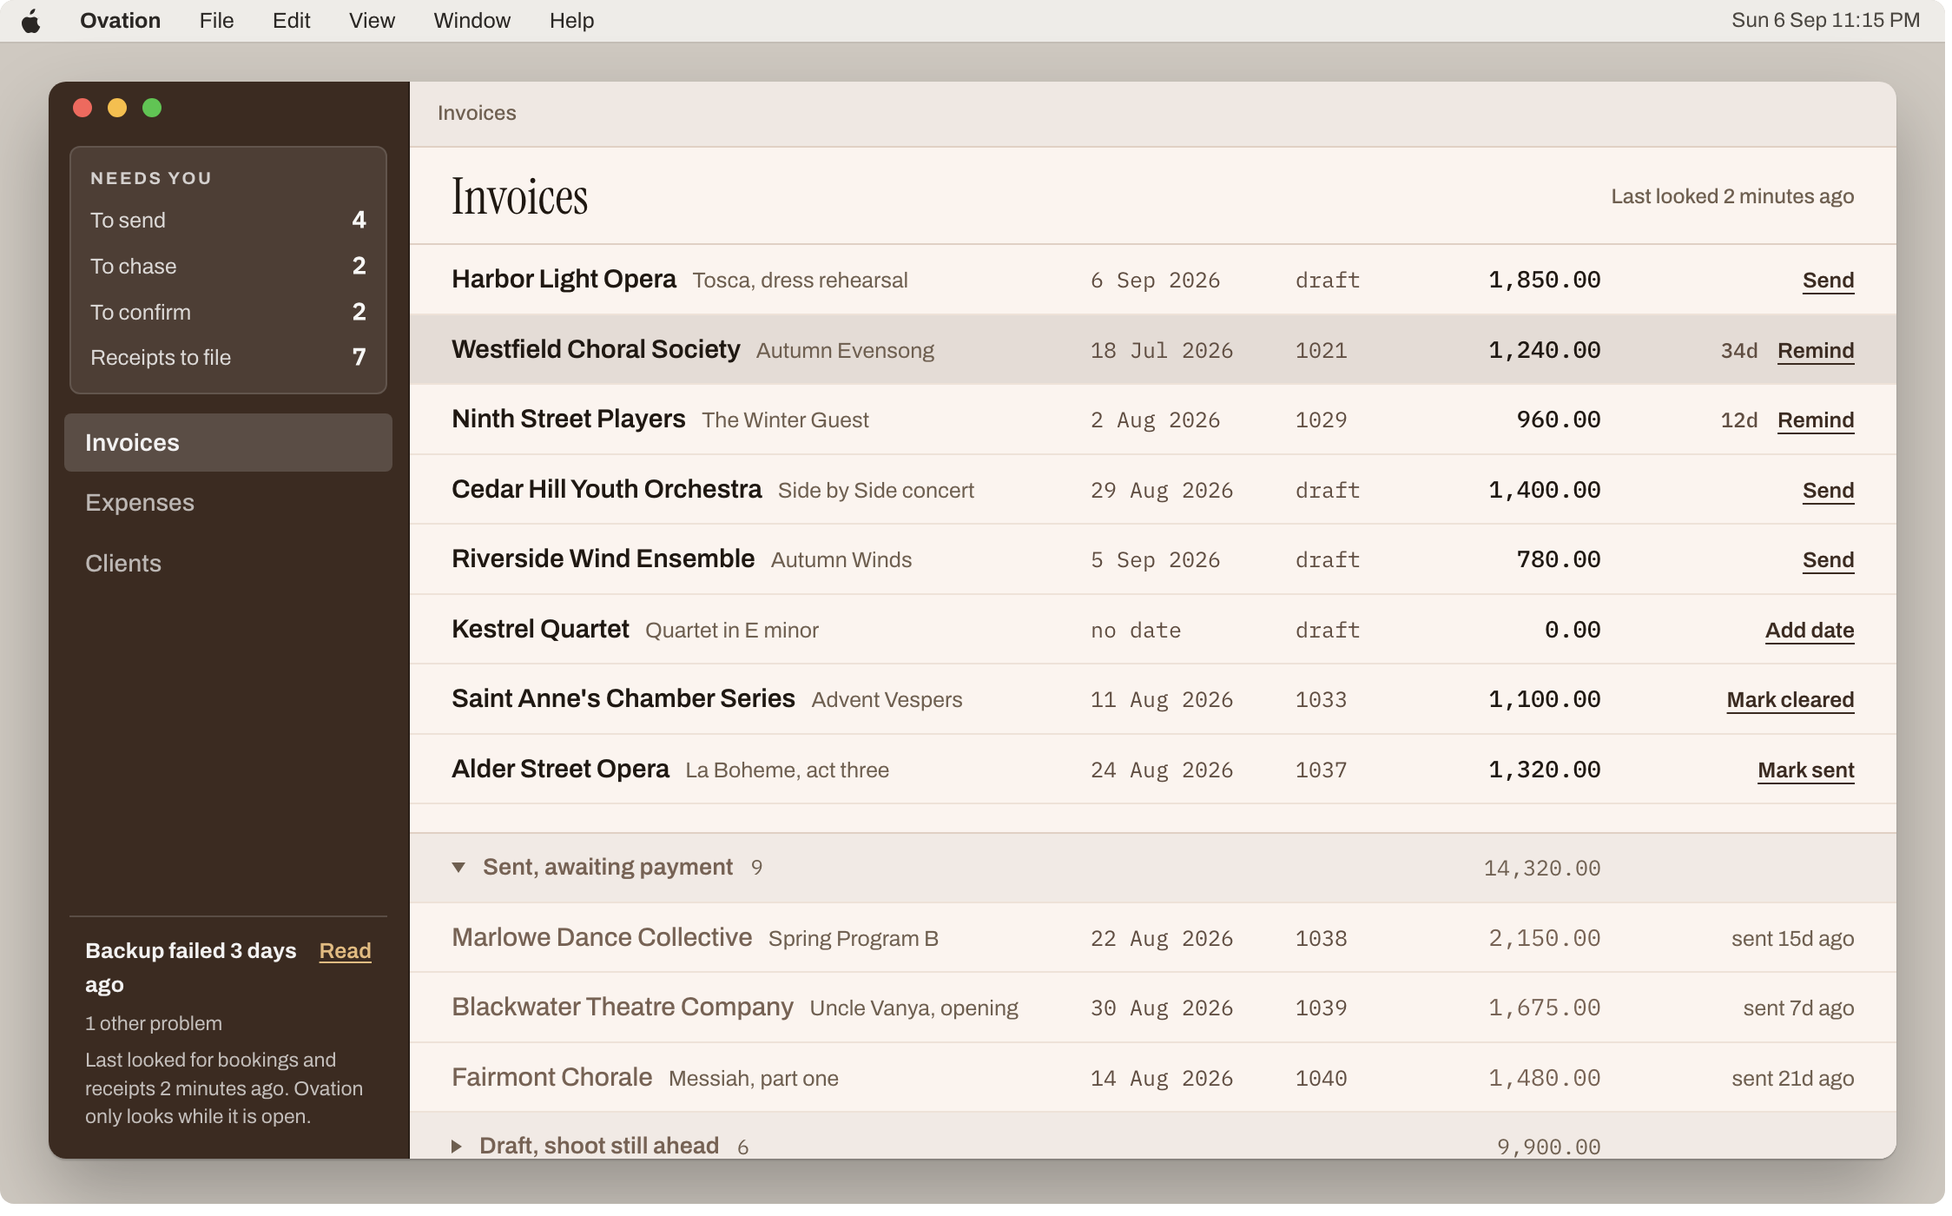
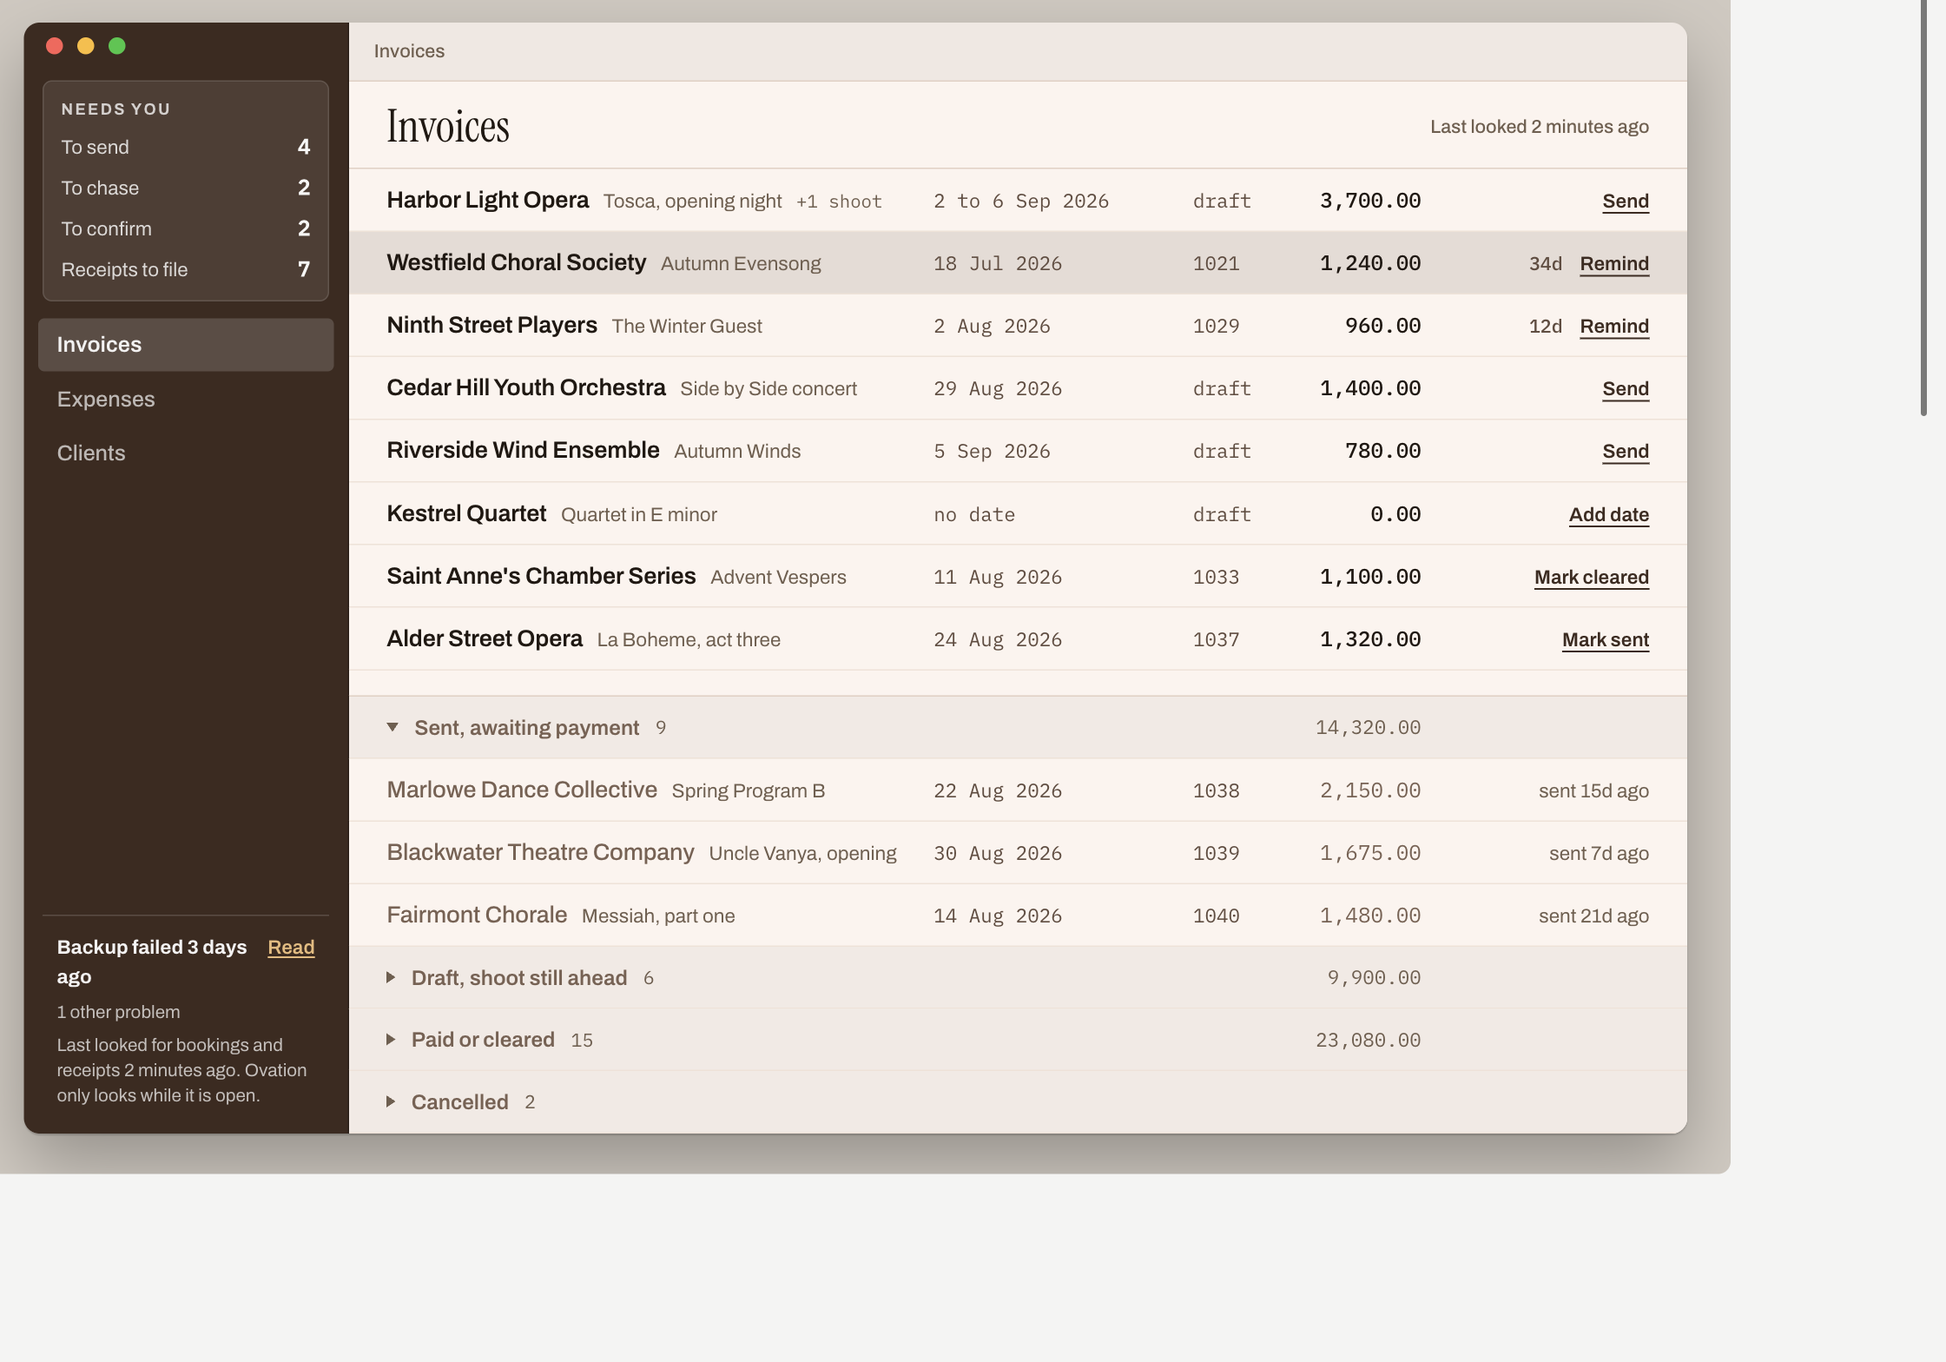
Show a combined invoice on one row, and stop the window hiding its own list
Two things, both found by measuring in a browser rather than by reading
the file.

FIRST, the row. PRD 5.1a lets one invoice cover several shoots, and the
row drew one shoot name and one date. Dan's call on 2026-09-07: name the
LAST shoot, count the rest ("+1 shoot"), and show a span for the dates.
The last rather than the first because it is the shoot the invoice is
dated by, so the name and the date agree instead of the row naming one
shoot and dating another. The span appears only where the days really
differ, so a matinee and an evening on one date show that single date.

Getting there exposed two faults nothing else would have caught. The
span did not fit the 104px date column, so the row silently WRAPPED to
two lines and broke the one line rule in 47, which no assertion covered
and which reads as fine unless you measure the row height. Sizing that
column to its content instead broke the alignment of every column after
it, measured at four different left edges, because each row is its own
grid and an auto column is therefore sized per row rather than once for
the list. So it is a fixed 152px, and the 48px comes back off the two
columns that were over reserving: the number column held 58px for
content needing 38, the amount column 104px where six figures need 76.
Neither was visible, because an over reservation fails no test and
breaks nothing, it only stops its neighbour growing.

SECOND, and this is the one Dan hit: the rendering could not be scrolled.
[…]

diff --git a/docs/design/invoice-list.html b/docs/design/invoice-list.html
@@ -114,7 +114,22 @@ h1 { margin: 0; font-family: "Instrument Serif", Georgia, serif; font-size: clam
   --rail-card-bg: #4D3E35; --rail-card-bd: #62554D; --rail-card-hd: #D4D0CE;
   --rail-card-ln: #DCD9D7; --rail-card-b: #F7F7F6;
   --rail-st-bd: #5A4D45; --rail-fault: #F3F2F2; --rail-read: #E2BC82; --rail-dim: #C4BFBC;
-  --cols: minmax(0,1fr) 104px 58px 104px 132px;
+  /* The date column is 152px, up from 104px, because a combined invoice shows
+     a SPAN and a span does not fit in 104. Measured in the browser, not
+     guessed: "2 to 6 Sep 2026" needs 113px and "28 Sep to 3 Oct 2026" needs
+     150px, against 75px for a single date. It must be a FIXED width: each row
+     is its own grid, so an auto column is sized per row and the dates and
+     amounts stop lining up down the list, which was tried and measured at four
+     different left edges. The year is printed once, at the end, which is what
+     keeps the worst case at 150 rather than the 188 a range carrying both
+     years would need. */
+  --cols: minmax(0,1fr) 152px 44px 88px 132px;
+  /* The 48px the date column gained is taken back from the two columns that
+     were over reserving, not from the names. Measured: the invoice number
+     column held 58px for content needing 38px, and still needs only 38 at five
+     digits; the amount column held 104px where "123,456.00" needs 76. An over
+     reservation fails no test and breaks nothing, it simply stops the neighbour
+     growing, which is why it survives unnoticed. */
   width: 1064px; margin: 22px auto 0; border-radius: 10px; overflow: hidden;
   box-shadow: 0 1px 1px rgba(0,0,0,.18), 0 20px 44px rgba(0,0,0,.28);
 }
@@ -122,7 +137,14 @@ h1 { margin: 0; font-family: "Instrument Serif", Georgia, serif; font-size: clam
    lights sit on it; the title bar exists only over the content. That is what
    macOS does whenever the sidebar carries a colour, and it removes the awkward
    light corner above a dark rail. */
-.app { display: grid; grid-template-columns: 208px minmax(0,1fr); grid-template-rows: 38px minmax(0,1fr); height: 620px; }
+/* THE WINDOW GROWS TO FIT ITS LIST. It used to be a fixed 620px with the list
+   scrolling inside it, which put a second scroll region under almost the whole
+   page: the wheel scrolled the list rather than the page, and three of the four
+   idle disclosures sat below the fold where nobody saw them. A real window does
+   scroll; this rendering exists to be READ, so it shows everything and leaves
+   the page with exactly one scroll region. Sized by content rather than by a
+   number, so no future fixture can hide rows again. */
+.app { display: grid; grid-template-columns: 208px minmax(0,1fr); grid-template-rows: 38px minmax(0,1fr); height: auto; min-height: 620px; }
 .side { grid-column: 1; grid-row: 1 / 3; }
 .titlebar { grid-column: 2; grid-row: 1; }
 .main { grid-column: 2; grid-row: 2; }
@@ -146,22 +168,26 @@ h1 { margin: 0; font-family: "Instrument Serif", Georgia, serif; font-size: clam
 .status .fault .read { color: var(--accent); font-weight: 600; text-decoration: underline; text-underline-offset: 2px; }
 .status .also, .status .looked { font-size: 11.5px; color: var(--faint); line-height: 1.4; }
 
-.main { background: var(--bg); display: flex; flex-direction: column; min-width: 0; overflow: hidden; }
+.main { background: var(--bg); display: flex; flex-direction: column; min-width: 0; overflow: visible; }
 .toolbar { display: flex; align-items: center; justify-content: space-between; gap: 16px; padding: 14px 24px 12px; border-bottom: 1px solid var(--rule); flex: none; }
 .toolbar h4 { margin: 0; font-family: "Instrument Serif", Georgia, serif; font-size: 29px; font-weight: 400; color: var(--ink); line-height: 1; }
 .toolbar .meta { font-size: 12px; color: var(--faint); font-weight: 500; }
-.scroll { overflow-y: auto; flex: 1; min-height: 0; }
+.scroll { flex: 1; min-height: 0; }
 
 .row { display: grid; grid-template-columns: var(--cols); gap: 14px; align-items: baseline; padding: 8px 24px; border-bottom: 1px solid var(--rule-soft); font-size: 15px; color: var(--ink); }
 .row .who { display: flex; align-items: baseline; gap: 9px; min-width: 0; }
 .row .client { font-weight: 600; letter-spacing: -.005em; white-space: nowrap; }
 .row .sub { font-size: 12.5px; color: var(--faint); white-space: nowrap; overflow: hidden; text-overflow: ellipsis; min-width: 0; }
-.row .when, .row .num, .row .amt { font-family: "IBM Plex Mono", ui-monospace, monospace; font-variant-numeric: tabular-nums; font-size: 12.5px; color: var(--soft); }
+.row .when, .row .num, .row .amt { font-family: "IBM Plex Mono", ui-monospace, monospace; font-variant-numeric: tabular-nums; font-size: 12.5px; color: var(--soft); white-space: nowrap; }
 .row .amt { text-align: right; color: var(--ink); font-weight: 500; font-size: 13.5px; }
 .row .end { display: flex; justify-content: flex-end; align-items: baseline; gap: 11px; }
 .age { font-family: "IBM Plex Mono", ui-monospace, monospace; font-size: 12px; font-weight: 500; color: var(--soft); font-variant-numeric: tabular-nums; }
 .act { font-size: 12.5px; font-weight: 600; color: var(--accent); text-decoration: underline; text-underline-offset: 3px; text-decoration-thickness: 1px; white-space: nowrap; }
 .said { font-size: 12.5px; color: var(--faint); white-space: nowrap; }
+/* A combined invoice names its LAST shoot, because that is the shoot the
+   invoice is dated by, and says how many others it covers. Same mono face as
+   the figures, because it IS a figure. */
+.row .plus { font-size: 11.5px; color: var(--faint); white-space: nowrap; font-family: "IBM Plex Mono", ui-monospace, monospace; font-variant-numeric: tabular-nums; }
 .row.idle { color: var(--quiet); }
 .row.idle .client { font-weight: 500; color: var(--quiet); }
 .row.idle .amt { color: var(--quiet); font-weight: 400; }
@@ -243,7 +269,11 @@ h1 { margin: 0; font-family: "Instrument Serif", Georgia, serif; font-size: clam
     <div><h3>The row</h3>
       <p><b>One line, client and shoot name together</b>, then date, invoice number, amount, action.
       About a third shorter than the two line version. Venue and shoot times are deliberately absent
-      and need a home elsewhere, filed as ovation#95.</p></div>
+      and need a home elsewhere, filed as ovation#95.</p>
+      <p><b>Where one invoice covers several shoots</b> (PRD 5.1a) the row names the LAST of them and
+      counts the rest, and the date becomes a span. The last, because that is the shoot the invoice is
+      dated by, so the name and the date agree. The span appears only where the days really differ: a
+      matinee and an evening on one date show that one date.</p></div>
     <div><h3>The actions</h3>
       <p><b>Words, not buttons.</b> Eight filled buttons beside five filled bands made structure and
       action look identical. A button also says what it does: Mark cleared, Mark sent.</p>
@@ -277,8 +307,12 @@ h1 { margin: 0; font-family: "Instrument Serif", Georgia, serif; font-size: clam
     <ol>
       <li><b>Where the venue and the times live</b>, ovation#95. The row has no room and the handoff
       sends both on every booking.</li>
-      <li><b>One invoice per shoot or one per run</b>, ovation#97, and blocking. Downbeat sends three
-      bookings for a three night run and nothing says whether that is three invoices.</li>
+      <li><b>An action word for dismissing a draft.</b> A booking now has three endings, not one, and
+      the third is Dan deciding not to bill it (PRD 5.1b). It has to sit beside Send and Mark cleared
+      without reading as a delete, because it is a decision and the row is kept.</li>
+      <li><b>Money held against a client has no surface.</b> A payment is its own record now and what
+      is not yet allocated sits on the client (PRD 5.14a), which is where a deposit lands too. This
+      screen is a list of invoices, so there is nowhere for it to appear.</li>
       <li><b>Two screens.</b> The receipts queue, and review and send, which is the one where a mistake
       reaches a client.</li>
       <li><b>The icon</b>, ovation#18, which was waiting on exactly this: the palette is now settled,
@@ -290,8 +324,10 @@ h1 { margin: 0; font-family: "Instrument Serif", Georgia, serif; font-size: clam
 
 <script>
 var GROUPS = [
-  { sum: "1,850.00", rows: [
-    { c: "Harbor Light Opera", s: "Tosca, dress rehearsal", d: "6 Sep 2026", n: "draft", a: "1,850.00", act: "Send" }]},
+  { sum: "3,700.00", rows: [
+    { c: "Harbor Light Opera", n: "draft", a: "3,700.00", act: "Send",
+      shoots: [{ s: "Tosca, dress rehearsal", d: "2 Sep 2026" },
+               { s: "Tosca, opening night",   d: "6 Sep 2026" }] }]},
   { sum: "2,200.00", rows: [
     { c: "Westfield Choral Society", s: "Autumn Evensong", d: "18 Jul 2026", n: "1021", a: "1,240.00", age: "34d", act: "Remind" },
     { c: "Ninth Street Players", s: "The Winter Guest", d: "2 Aug 2026", n: "1029", a: "960.00", age: "12d", act: "Remind" }]},
@@ -318,15 +354,34 @@ var IDLE = [
 
 function el(t, c, x) { var n = document.createElement(t); if (c) n.className = c; if (x !== undefined) n.textContent = x; return n; }
 
+/* One invoice can cover several shoots (PRD 5.1a), so the row names the LAST
+   of them, which is the shoot the invoice is dated by, and counts the rest.
+   The date becomes a span only where the shoots really are on different days:
+   a matinee and an evening on one date stay a single date. */
+function shootSpan(shoots) {
+  var a = shoots[0].d.split(" "), b = shoots[shoots.length - 1].d.split(" ");
+  if (a.join(" ") === b.join(" ")) return b.join(" ");
+  if (a[1] === b[1] && a[2] === b[2]) return a[0] + " to " + b[0] + " " + b[1] + " " + b[2];
+  return a[0] + " " + a[1] + " to " + b[0] + " " + b[1] + " " + b[2];
+}
+
 function rowEl(r, first) {
   var n = el("div", "row" + (first ? " runstart" : ""));
   var who = el("div", "who");
-  who.append(el("div", "client", r.c), el("div", "sub", r.s));
+  var when = r.d;
+  if (r.shoots) {
+    var last = r.shoots[r.shoots.length - 1], others = r.shoots.length - 1;
+    who.append(el("div", "client", r.c), el("div", "sub", last.s),
+               el("div", "plus", "+" + others + (others === 1 ? " shoot" : " shoots")));
+    when = shootSpan(r.shoots);
+  } else {
+    who.append(el("div", "client", r.c), el("div", "sub", r.s));
+  }
   var end = el("div", "end");
   if (r.age) end.append(el("span", "age", r.age));
   if (r.act) end.append(el("span", "act", r.act));
   if (r.said) end.append(el("span", "said", r.said));
-  n.append(who, el("div", "when", r.d), el("div", "num", r.n), el("div", "amt", r.a), end);
+  n.append(who, el("div", "when", when), el("div", "num", r.n), el("div", "amt", r.a), end);
   return n;
 }
 

diff --git a/docs/design/README.md b/docs/design/README.md
@@ -24,7 +24,7 @@ three things in it are web idioms that must be translated rather than copied:
 | Shell | One window. Invoices, Expenses, Clients. Export and Import are File menu commands, Settings is in the app menu. Single window is a hard rule (PRD 41b), asserted by a test. |
 | Sidebar | A full height panel in espresso running to the top of the window with the traffic lights on it, which is the macOS pattern when a sidebar carries colour. The title bar exists only over the content. |
 | The list | No group headings and no per row chips. Both said what the action word on the right already says. The groups still decide ORDER, they are simply not drawn (see ovation#49). |
-| A row | One line at 29px: client and shoot name, shoot date, invoice number or draft, amount, action. Venue and shoot times are deliberately absent and need a home (ovation#95). |
+| A row | One line at 29px: client and shoot name, shoot date, invoice number or draft, amount, action. Venue and shoot times are deliberately absent and need a home (ovation#95). Where one invoice covers several shoots it names the LAST one, counts the rest, and shows a date span. |
 | Actions | A word, not a button. "Mark cleared" and "Mark sent", never "Cleared" or "It was sent": a control says what it does. |
 | Selection | A tint only, no left bar. A bar flush against the espresso sidebar is invisible, and a tint is what macOS uses anyway. |
 | Counts | Four, in the sidebar card, each appearing exactly once. No inventory counts: a number in the chrome only ever means this many things need you. |
@@ -64,16 +64,19 @@ is pure ASCII**, so no pipe between here and a browser can mangle it.
 waiting on the palette and is now unblocked. The receipts queue and the review and send
 screen are not designed yet.
 
-**ovation#97 is answered, and its answers opened three things this design does not cover.**
+**ovation#97 is answered. Its answers opened three things, one of which is now settled.**
 It was listed here as blocking on whether a three night run is one invoice or three. It was
 not blocking: the PRD had answered it, in three places. What the interview of 2026-09-06
 found instead is that the recorded answer was WRONG, and correcting it changes this design
 rather than unblocking it.
 
-1. **A row assumes one shoot, and an invoice no longer does.** Dan bills the engagement, so
-   a Wednesday rehearsal and a Saturday concert go on one invoice (PRD 5.1a). The row draws
-   a single shoot name and a single shoot date, and there is no decided answer for what it
-   shows when the invoice covers two.
+1. ~~A row assumes one shoot~~ **Settled 2026-09-07 and built into the file.** The row names
+   the LAST shoot, counts the others ("+1 shoot"), and shows a span where the days differ.
+   Fixing it exposed two faults nothing else would have caught, both found by measuring in a
+   browser rather than by looking: the span did not fit the date column, so the row silently
+   WRAPPED to two lines and broke the one line rule, and sizing that column to its content
+   instead broke the alignment of every column after it, because each row is its own grid.
+   See PRD 47a and 47b.
 2. **Dismissing a draft is a new action with no word yet.** A booking now has three endings,
    not one, and the third is Dan deciding not to bill it (PRD 5.1b). Every other action on
    the list is a word on the right of the row, and this one has to sit beside them without

diff --git a/PRD.md b/PRD.md
@@ -183,6 +183,8 @@ Not for: anyone else. There are no other users, no roles and no sharing. Ovation
 46a. **The sidebar card is a ROLLUP of those groups, and the mapping is part of the requirement rather than an implementation detail.** Its four lines are not the eight groups renamed; two of them each cover two groups. **To send** is group 1 (draft, shoot is today) plus group 3 (draft, shoot has passed or has no date). **To chase** is group 2 (overdue). **To confirm** is group 4 (paid by check, not cleared) plus the third member of the sent triple from ovation#45 (could not determine whether it was sent). **Receipts to file** is the expense queue and comes from the other half of the product entirely. Without this written down the card cannot be reproduced, and worse, whoever builds it will derive the numbers separately from the list, which is precisely the drift the compute once and read twice rule on ovation#49 exists to prevent: **that rule is unenforceable without this mapping beside it.** Acting on a card line takes you to the groups it rolls up, or the first time 4 on the left is compared with 1 on the right it reads as a defect.
 
 47. **A row is one line.** Client and shoot name together, then shoot date, invoice number or the word draft, amount, and the action. Money is always in tabular figures with aligned decimals, because an amount that can be misread is the one thing this app cannot afford. A selected row is marked by a tint alone and never a left bar, which is both the macOS convention and a practical necessity once the sidebar is dark.
+47a. **A row that covers several shoots names the LAST one and counts the rest** (Dan, 2026-09-07). It reads "Tosca, opening night" then "+1 shoot", and the date becomes a span, "2 to 6 Sep 2026". The last shoot is named rather than the first because it is the shoot the invoice is DATED by, so the name and the date agree instead of the row naming one shoot and dating another. **The span appears only where the shoots really are on different days**: a matinee and an evening on one date show that single date, because a span from a day to itself states nothing. The year is printed once, at the end, which is what keeps the widest case inside its column.
+47b. **The date column is 152px and the row stays one line, both measured in a browser rather than reasoned about.** A span needs 113px and one crossing a month needs 150, against 75 for a single date, so at the old 104px the row silently WRAPPED to two lines and broke 47. The column must be a fixed width: each row is its own grid, so sizing it to its content sizes it per row, and the dates and amounts stop lining up down the list, which was tried and measured at four different left edges. The 48px it gained comes back off the invoice number column, which reserved 58px for content needing 38, and the amount column, which reserved 104px where six figures need 76. Neither over reservation was visible: it fails no test and breaks nothing, it only stops the neighbour growing.
 
 48. **A control says what it does.** "Mark cleared" and "Mark sent", never "Cleared" or "It was sent", which read as statements rather than commands. Actions are drawn as a word rather than a filled button: Downbeat's `DBPlainButtonStyle` is the existing control for this and is already used in 18 places, so nothing new is invented.
 
